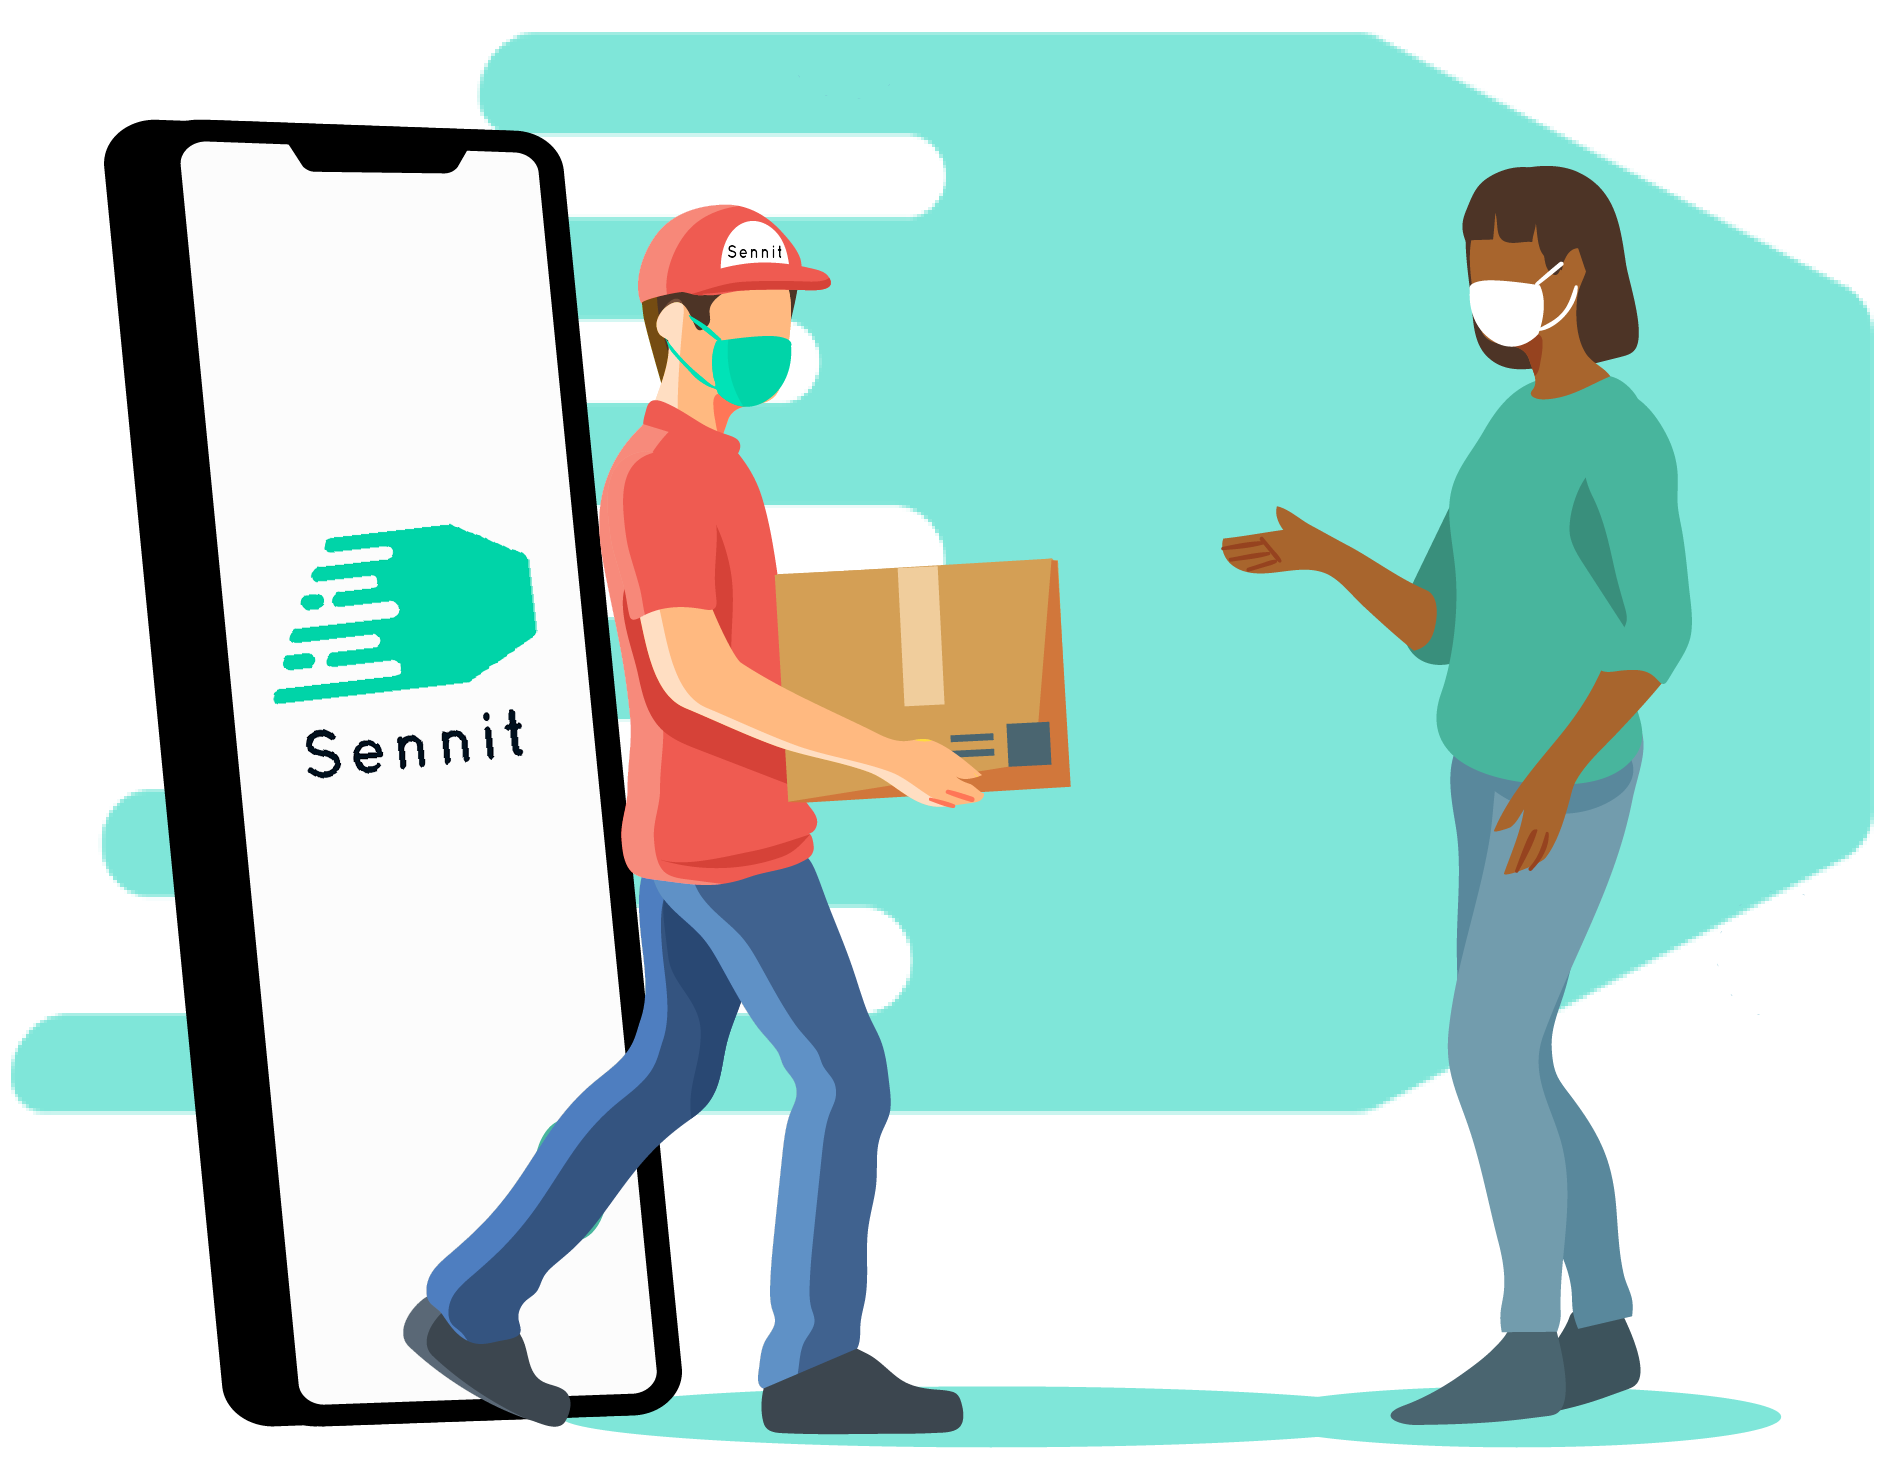
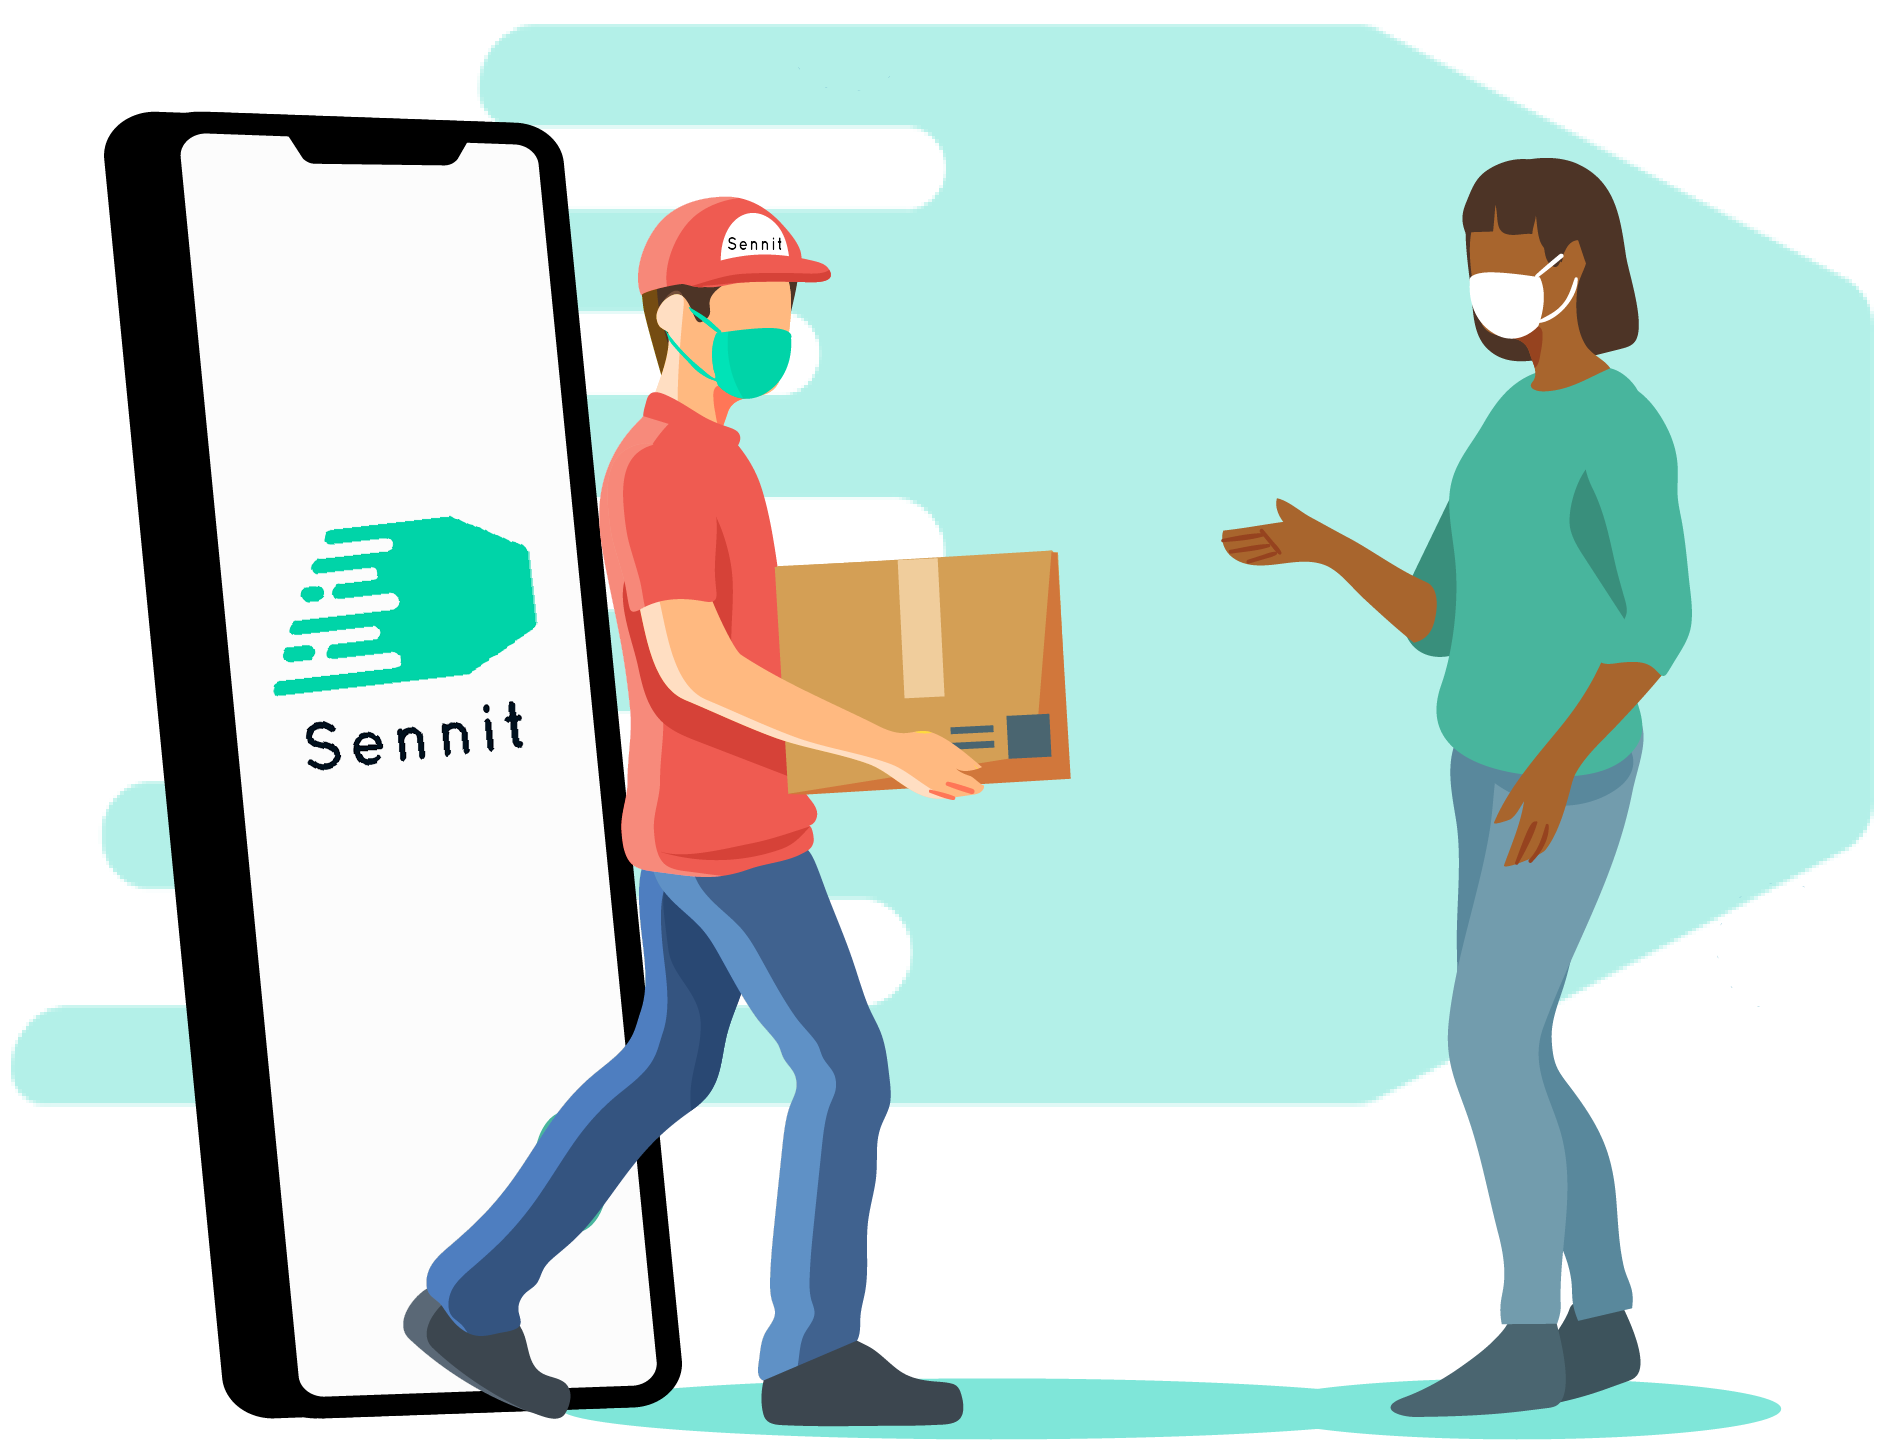
cambio en fondos

diff --git a/index.html b/index.html
@@ -35,14 +35,14 @@
               <div class="col-md-5 col-lg-5 col-sm-5 text-center text-sm-left margins">
                 <div class="black-text">
                   <div class="wow fadeInLeft" data-wow-delay="0.3s">
-                    <h1 class="h1-responsive font-bold mt-sm-5"><u>Envios</u> Seguros y Economicos</h1>
+                    <h1 class="h1-responsive font-bold mt-5"><u>Envios</u> Seguros y Economicos</h1>
                     <p class="font-weight-light textlitle">El servicio de Sennit convierte los envíos de paquetería en una mejor experiencia. Elige cuándo quieres hacer un envío, será fácil, más rápido y seguro. Puedes monitorear tus envíos a través de la aplicación y confiar que el paquete será entregado al destinatario que tu elijas. Sennit puede ser una excelente opción para tener ingresos extras de manera sencilla y rápida.</p>
                     <a class="btn boton btn-sm" href="#about">Saber Mas</a> 
                   </div>
                 </div>
               </div>
               <div class="col-md-7 col-lg-7 float-right wow fadeInLeft">
-                <img src='img/FondoPrincipal2.png' class="img-fluid" alt="Sennit">
+                <img src='img/FondoPrincipal.png' class="img-fluid" alt="Sennit">
               </div>
             </div>
           </div>  
@@ -169,7 +169,7 @@
       </div>
 
       <div class="col-md-7 col-lg-7 float-right wow fadeInLeft">
-        <img src='img/operator.jpg' class="img-fluid" alt="Clients">
+        <img src='img/fondoOperador.png' class="img-fluid" alt="Operator">
       </div>
 
     </div>
@@ -216,7 +216,7 @@
       </div>
       
         <div class="col-md-7 col-lg-7 float-right wow fadeInLeft">
-          <img src='img/clients.jpg' class="img-fluid" alt="Clients">
+          <img src='img/fondoCliente.png' class="img-fluid" alt="Clients">
         </div>
         
     </div>

diff --git a/styles/main.css b/styles/main.css
@@ -52,6 +52,7 @@ body {
 .boton{
   background-color: #18AA8D !important;
   border-color:  #18AA8D !important;
+  color: black !important;
 }
 
  /* navbar */ 
@@ -95,9 +96,9 @@ body {
 #intro .h6 {
   font-weight: 300;
   line-height: 1.7;
-}
+} 
 
- /* caracteristicas de responsive 450 */ 
+ /* caracteristicas de responsive 450 
 @media (max-width: 450px) {
   .margins {
     margin-right: 1rem;
@@ -111,9 +112,11 @@ body {
   h1 {
     margin-top: auto;
   }
-}
+} 
 
- /* caracteristicas de responsive 384 */ 
+*/
+
+ /* caracteristicas de responsive 384 
 @media (max-width: 384px) {
   .margins {
     margin-right: 1rem;
@@ -131,7 +134,9 @@ body {
   }
 }
 
- /* caracteristicas de responsive 360 */ 
+*/ 
+
+ /* caracteristicas de responsive 360 
 @media (max-width: 360px) {
   .margins {
     margin-right: 1rem;
@@ -150,7 +155,9 @@ body {
   }
 }
 
- /* caracteristicas de responsive 320*/ 
+*/ 
+
+ /* caracteristicas de responsive 320
 @media (max-width: 320px) {
   .margins {
     margin-right: 1rem;
@@ -168,6 +175,8 @@ body {
     font-size: small;
   }
 }
+
+*/ 
 
  /* posicion vertical de carousel */ 
 .vertical {
@@ -212,4 +221,9 @@ u {
 
 .modal-footer-full-width  {
   border-top: 1px solid #9ea2a2 !important;
+}
+
+
+h2 {
+  color: black !important;
 }
